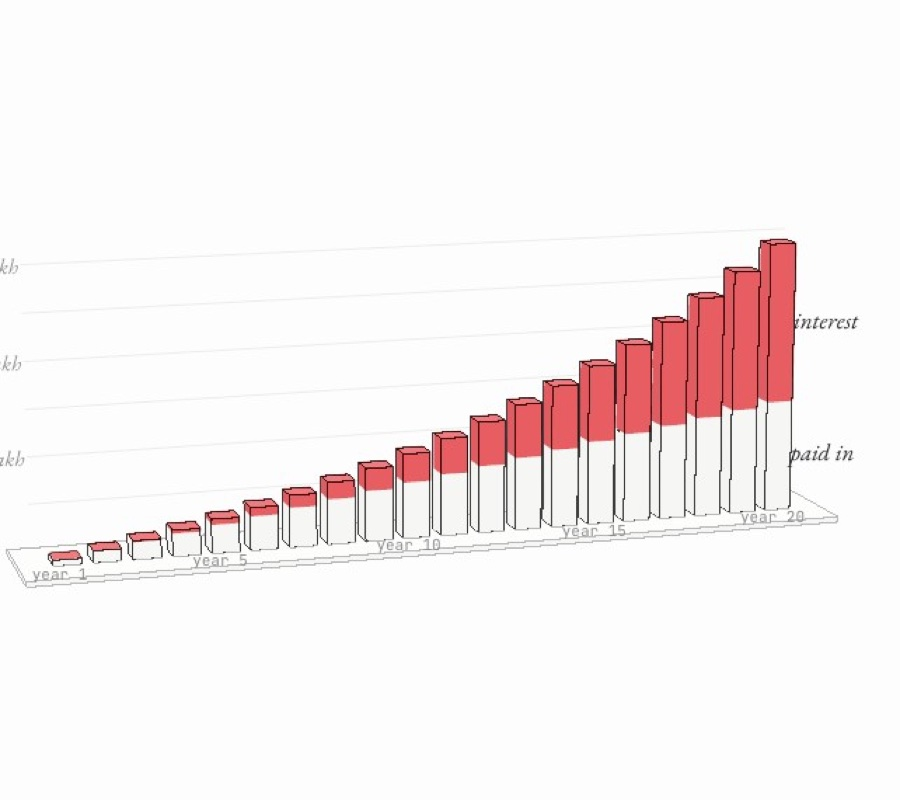
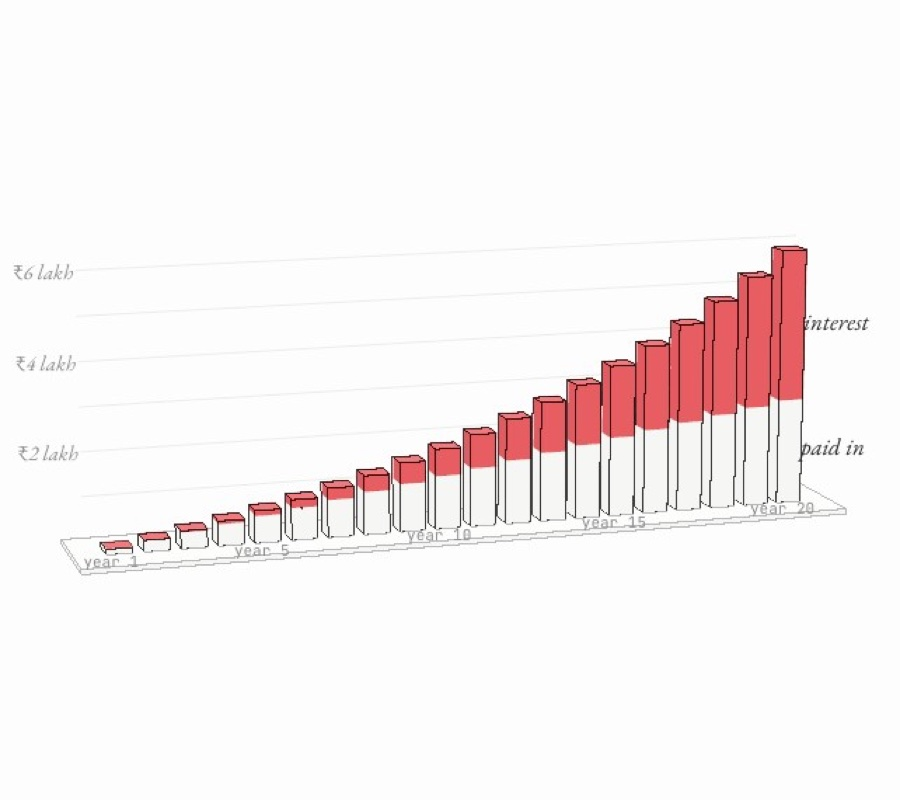
Unit circle: one ink ring, a larger sine wave, the tangent line kept on its board, legible value labels
Design-critique fixes by the chapter's builder; checks re-proved for the squeezed wave (59 PASS).
Cards redrawn for the unit circle and the compound machine's new amber step.

diff --git a/maths/unit-circle/world.js b/maths/unit-circle/world.js
@@ -25,11 +25,13 @@ export function buildWorld(E) {
   const root = new THREE.Group(); scene.add(root);
   const labels = [];
   const label = (cls, html, at, text) => labels.push({ cls, html, at, text });
+  // values on the drawing (1, ½, √3/2 …): ink, upright, 15 px, whatever the label class's own size and colour
+  const ink = (html, px = 15) => `<span style="font:${px}px/1 var(--serif);font-style:normal;color:var(--hi)">${html}</span>`;
 
   // faint graph-paper ground
   const grid = [];
-  for (let x = -4; x <= 82; x++) grid.push(x, 0.001, -3, x, 0.001, 4);
-  for (let z = -3; z <= 4; z++) grid.push(-4, 0.001, z, 82, 0.001, z);
+  for (let x = -12; x <= 90; x++) grid.push(x, 0.001, -16, x, 0.001, 10);
+  for (let z = -16; z <= 10; z++) grid.push(-12, 0.001, z, 90, 0.001, z);
   lines(root, grid, '#e6e6e2');
 
   // ---------- helpers ----------
@@ -76,12 +78,17 @@ export function buildWorld(E) {
 
   // A drawing board centred on x0: board, stand, faint squared paper, axes with ±1 ticks, the circle and O.
   // b = the board's extent in radii. Returns W(mx, my, z): radii on this board → world.
-  function board(x0, { b = [-1.45, 1.45, -1.45, 1.45], parent = root, axes = [-1.3, 1.3, -1.3, 1.3], ticks = true } = {}) {
+  function board(x0, { b = [-1.45, 1.45, -1.45, 1.45], parent = root, axes = [-1.3, 1.3, -1.3, 1.3], ticks = true, xName = '<i>x</i>' } = {}) {
     const W = (mx, my, z = 0) => V(x0 + mx * RW, CY + my * RW, z);
     const [bx0, bx1, by0, by1] = b, bw = (bx1 - bx0) * RW, bh = (by1 - by0) * RW, c = W((bx0 + bx1) / 2, (by0 + by1) / 2, ZB);
-    part(root, box(bw, bh, 0.04, 0.015), { tone: 'lo', pal: 'board', pos: c.toArray(), name: 'Board' });
-    const yb = CY + by0 * RW;
-    part(root, box(Math.min(bw * 0.5, 2.4), yb, 0.5, 0.02), { tone: 'lo', pal: 'base', pos: [c.x, yb / 2, ZB - 0.2], name: 'Stand' });
+    // a flat sheet with a thin drawn outline: the edge pass inked its near-vertical sides in stepped dashes
+    part(root, new THREE.BoxGeometry(bw, bh, 0.006), { tone: 'lo', pal: 'board', pos: c.toArray(), name: 'Board' }).userData.noEdge = true;
+    { const zo = ZB + 0.004, q = [[bx0, by0], [bx1, by0], [bx1, by1], [bx0, by1]], o = [];
+      for (let k = 0; k < 4; k++) o.push(...W(...q[k], zo).toArray(), ...W(...q[(k + 1) % 4], zo).toArray());
+      lines(root, o, '#cfcfcb'); }
+    const yb = CY + by0 * RW, legs = [];
+    for (const s of [-1, 1]) legs.push(c.x + s * bw * 0.3, yb, ZB - 0.01, c.x + s * bw * 0.34, 0.001, ZB - 0.45);
+    lines(root, legs, '#d6d6d2');
     // squared paper: a line every quarter of a radius
     const sq = [], zq = ZB + 0.022;
     for (let k = Math.ceil(bx0 * 4); k <= Math.floor(bx1 * 4); k++) sq.push(...W(k / 4, by0, zq).toArray(), ...W(k / 4, by1, zq).toArray());
@@ -91,9 +98,10 @@ export function buildWorld(E) {
     const [ax0, ax1, ay0, ay1] = axes, ax = [...W(ax0, 0).toArray(), ...W(ax1, 0).toArray(), ...W(0, ay0).toArray(), ...W(0, ay1).toArray()];
     if (ticks) for (const s of [-1, 1]) ax.push(...W(s, -0.04).toArray(), ...W(s, 0.04).toArray(), ...W(-0.04, s).toArray(), ...W(0.04, s).toArray());
     lines(root, ax, '#8a8a8f');
-    label('axis', '<i>x</i>', () => W(ax1 + 0.02, -0.1, ZL));
+    label('axis', xName, () => W(ax1 + 0.02, -0.1, ZL));
     label('axis', '<i>y</i>', () => W(-0.07, ay1 - 0.04, ZL));
-    const ring = part(parent, new THREE.TorusGeometry(RW, 0.022, 10, 180), { tone: 'mid', pal: 'paper', pos: W(0, 0).toArray(), name: 'Circle' });
+    const ring = part(parent, new THREE.TorusGeometry(RW, 0.011, 8, 256), { tone: 'mid', pal: 'ink', pos: W(0, 0).toArray(), name: 'Circle' });
+    ring.userData.noEdge = true;                // a thin ink tube needs no outline: it is the stroke
     dot(root, 0.04, 'ink', 'Origin', 'mid').position.copy(W(0, 0));
     return { W, ring };
   }
@@ -123,8 +131,8 @@ export function buildWorld(E) {
   const drop0 = dyn(root, 3, { color: '#6e6e74', dash: 0.06 });
   const foot0 = [bar(g0, { w: 0.05, pal: 'blue', name: 'cos θ' }), bar(g0, { w: 0.05, pal: 'red', name: 'sin θ' })];
   label('vec', '<i>P</i>', () => riding(W0, M.steady(T), 1.2));
-  label('mark', '1', () => W0(1.1, -0.1, ZL)); label('mark', '−1', () => W0(-1.13, -0.1, ZL));
-  label('mark', '1', () => W0(-0.1, 1.1, ZL)); label('mark', '−1', () => W0(-0.13, -1.1, ZL));
+  label('mark', ink('1'), () => W0(1.1, -0.1, ZL)); label('mark', ink('−1'), () => W0(-1.14, -0.1, ZL));
+  label('mark', ink('1'), () => W0(-0.1, 1.1, ZL)); label('mark', ink('−1'), () => W0(-0.14, -1.1, ZL));
   label('mark', '<i>O</i>', () => W0(-0.1, -0.12, ZL));
   label('mark', 'θ', () => { const a = (M.steady(T) % M.TAU) / 2; return W0(0.36 * Math.cos(a), 0.36 * Math.sin(a), ZL); });
   label('vec blue', 'cos θ', () => ex(g0) > 0.3 ? W0(Math.cos(M.steady(T)) / 2, Math.sin(M.steady(T)) < 0 ? 0.13 : -0.13, ZL) : null);
@@ -141,10 +149,12 @@ export function buildWorld(E) {
   { const c = [];                                                     // ghost radii at 30°, 45°, 60°, and marks on the screen
     for (const s of M.SPECIAL.slice(1, 4)) c.push(...W1(0, 0).toArray(), ...W1(s.cos, s.sin).toArray());
     lines(root, c, '#cfcfd3');
-    const m = []; for (const s of M.SPECIAL) m.push(...W1(SX + 0.04, s.sin, 0.05).toArray(), ...W1(SX + 0.13, s.sin, 0.05).toArray());
+    // √3/2 sits only 0.134 below 1, so its value stands out in a second column, on a longer tick
+    const far = s => s.deg === 60, m = [];
+    for (const s of M.SPECIAL) m.push(...W1(far(s) ? SX - 0.36 : SX + 0.04, s.sin, 0.05).toArray(), ...W1(SX + 0.13, s.sin, 0.05).toArray());
     lines(root, m, '#6e6e74');
-    for (const s of M.SPECIAL) label('tick', s.sinText, () => W1(SX - 0.07, s.sin, ZL)); }
-  label('vec red', 'sin θ', () => { const s = Math.sin(M.steady(T)); return Math.abs(s) > 0.12 ? W1(SX + 0.26, s / 2, ZL) : null; });
+    for (const s of M.SPECIAL) label('axis', ink(s.sinText, 14), () => W1(far(s) ? SX - 0.4 : SX - 0.07, s.sin, ZL)); }
+  label('vec red', 'sin θ', () => { const s = Math.sin(M.steady(T)); return Math.abs(s) > 0.12 ? W1(SX - 0.55, s / 2, ZL) : null; });   // left of the screen, where P never goes
   label('vec', '<i>P</i>', () => riding(W1, M.steady(T) - 0.24, 0.84));     // inside and just behind P, off the radius and clear of the shadow's label
   label('axis', 'level light', () => W1(LX - 0.1, 1.28, ZL));
 
@@ -162,7 +172,7 @@ export function buildWorld(E) {
     const m = []; for (const s of M.SPECIAL) m.push(...W2(s.cos, SY + 0.04, 0.05).toArray(), ...W2(s.cos, SY + 0.13, 0.05).toArray());
     lines(root, m, '#6e6e74');
     // staggered, so the close surds don't collide
-    M.SPECIAL.forEach((s, i) => label('mark', s.cosText, () => W2(s.cos, SY - (i % 2 ? 0.36 : 0.13), ZL))); }
+    M.SPECIAL.forEach((s, i) => label('mark', ink(s.cosText, 14), () => W2(s.cos, SY - (i % 2 ? 0.36 : 0.13), ZL))); }
   label('vec blue', 'cos θ', () => { const c = Math.cos(M.steady(T)); return Math.abs(c) > 0.2 ? W2(c / 2, SY + 0.28, ZL) : null; });
   label('vec', '<i>P</i>', () => riding(W2, M.steady(T) - 0.24, 0.84));
   label('board', 'light', () => W2(-1.3, LY - 0.17, ZL));
@@ -200,18 +210,18 @@ export function buildWorld(E) {
     for (let k = 1; k <= 6; k++) c.push(...W4(Math.cos(k), Math.sin(k)).toArray(), ...W4(1.09 * Math.cos(k), 1.09 * Math.sin(k)).toArray());
     c.push(...W4(0, 0).toArray(), ...W4(Math.cos(1), Math.sin(1)).toArray());             // the 1-radian wedge
     lines(root, c, '#6e6e74');
-    for (let k = 1; k <= 6; k++) label('mark', String(k), () => W4(1.22 * Math.cos(k), 1.22 * Math.sin(k), ZL));
-    label('mark', '2π', () => W4(1.22, 0.08, ZL));
-    label('mark', '1 rad', () => W4(0.5 * Math.cos(0.5), 0.5 * Math.sin(0.5), ZL)); }
+    for (let k = 1; k <= 6; k++) label('mark', ink(String(k)), () => W4(1.22 * Math.cos(k), 1.22 * Math.sin(k), ZL));
+    label('mark', ink('2π'), () => W4(1.22, 0.08, ZL));
+    label('mark', ink('1 rad'), () => W4(0.5 * Math.cos(0.5), 0.5 * Math.sin(0.5), ZL)); }
   // unrolled (opened): the arc straightened up the line x = 1, with a mark every radius
   const unroll4 = new THREE.Group(); root.add(unroll4);
   { const c = []; for (let k = 1; k <= 6; k++) c.push(...W4(0.94, k).toArray(), ...W4(1.06, k).toArray()); c.push(...W4(1, 0).toArray(), ...W4(1, 6.6).toArray()); lines(unroll4, c, '#6e6e74'); }
-  for (let k = 1; k <= 6; k++) label('tick', String(k), () => unroll4.visible ? W4(0.9, k, ZL) : null);
+  for (let k = 1; k <= 6; k++) label('axis', ink(String(k)), () => unroll4.visible ? W4(0.9, k, ZL) : null);
   label('vec red', '<i>s</i> = θ', () => { const a = M.unwind(T); return a > 0.5 && ex(g4) < 0.3 ? W4(0.72 * Math.cos(a / 2), 0.72 * Math.sin(a / 2), ZL) : null; });
 
   // ---------- 5 · the sine wave: P's height drawn on a strip sliding to the right ----------
-  const S5 = STATIONS.wave, SL = M.STRIP.len;
-  const B5 = board(S5, { b: [-1.45, PEN + SL + 0.3, -1.45, 1.45], axes: [-1.3, PEN + SL + 0.15, -1.3, 1.3] }), W5 = B5.W, p5 = pointP(W5, root);
+  const S5 = STATIONS.wave, SL = M.STRIP.len, KP = M.K;
+  const B5 = board(S5, { b: [-1.45, PEN + SL + 0.3, -1.45, 1.45], axes: [-1.3, PEN + SL + 0.15, -1.3, 1.3], xName: '<i>t</i>' }), W5 = B5.W, p5 = pointP(W5, root);
   part(root, new THREE.BoxGeometry(SL * RW, 2.3 * RW, 0.012), { tone: 'lo', pal: 'base', pos: W5(PEN + SL / 2, 0, -0.07).toArray(), name: 'Strip' });
   const g5 = asm('wave', root, { title: 'The trace', sub: 'P’s height against how far it has turned' });
   const trace5 = part(g5, liveTube(280, 0.03), { pal: 'red', name: 'Trace, y = sin t', tone: 'hi' });
@@ -220,25 +230,25 @@ export function buildWorld(E) {
   const level5 = dyn(root, 2, { color: '#8a8a8f', dash: 0.07 });
   const ticks5 = lines(root, new Array(4 * 6).fill(0), '#6e6e74');
   ticks5.geometry.attributes.position.setUsage(THREE.DynamicDrawUsage); ticks5.frustumCulled = false;
-  { const yb = -1.3, c = [...W5(PEN, yb).toArray(), ...W5(PEN + M.TAU, yb).toArray()];        // one wavelength, 2π
-    for (const u of [0, M.TAU]) c.push(...W5(PEN + u, yb - 0.06).toArray(), ...W5(PEN + u, yb + 0.06).toArray());
-    for (let k = 1; k <= 6; k++) c.push(...W5(PEN + k, -1.17).toArray(), ...W5(PEN + k, -1.12).toArray());
+  { const yb = -1.3, c = [...W5(PEN, yb).toArray(), ...W5(PEN + M.WAVELENGTH, yb).toArray()];   // one wavelength: t = 2π
+    for (const u of [0, M.WAVELENGTH]) c.push(...W5(PEN + u, yb - 0.06).toArray(), ...W5(PEN + u, yb + 0.06).toArray());
+    for (let k = 1; k <= 7; k++) c.push(...W5(PEN + KP * k, -1.17).toArray(), ...W5(PEN + KP * k, -1.12).toArray());   // t = 1, 2, … 7
     lines(root, c, '#6e6e74'); }
-  label('mark', 'one turn: 2π', () => W5(PEN + Math.PI, -1.56, ZL));
-  label('tick', '1', () => W5(PEN - 0.05, 1, ZL)); label('tick', '−1', () => W5(PEN - 0.05, -1, ZL)); label('tick', '0', () => W5(PEN - 0.05, 0.06, ZL));
+  label('mark', ink('one turn: <i>t</i> = 2π'), () => W5(PEN + M.WAVELENGTH / 2, -1.56, ZL));
+  label('axis', ink('1'), () => W5(PEN - 0.05, 1, ZL)); label('axis', ink('−1'), () => W5(PEN - 0.05, -1, ZL)); label('axis', ink('0'), () => W5(PEN - 0.05, 0.08, ZL));
   label('board', '<i>y</i> = sin <i>t</i>', () => W5(PEN + 0.1, 1.32, ZL));
   label('axis', 'paper moves →', () => W5(PEN + SL - 0.05, 1.32, ZL));
-  label('vec blue', 'slope = cos <i>t</i>', () => ex(g5) > 0.3 ? W5(PEN + 3.2, Math.cos(M.steady(T) - 3.2) > 0 ? -0.85 : 0.85, ZL) : null);
+  label('vec blue', 'slope = cos <i>t</i>', () => ex(g5) > 0.3 ? W5(PEN + 1.6, Math.cos(M.steady(T) - 1.6 / KP) > 0 ? -0.85 : 0.85, ZL) : null);
 
   // ---------- 6 · tangent: the ray OP carried on to the line x = 1 ----------
   const S6 = STATIONS.tangent, B6 = board(S6, { b: [-1.45, 1.75, -1.45, 2.7], axes: [-1.3, 1.6, -1.3, 2.55] }), W6 = B6.W, p6 = pointP(W6, root);
-  part(root, cyl(0.014, 3.9 * RW, 10), { tone: 'mid', pal: 'dark', pos: W6(1, 1.2, 0).toArray(), name: 'Tangent line' });
+  part(root, cyl(0.014, 3.9 * RW, 10), { tone: 'mid', pal: 'dark', pos: W6(1, 0.65, 0).toArray(), name: 'Tangent line' });   // y = −1.3 … 2.6, inside the board
   const g6 = asm('tangent', root, { title: 'The tangent length', sub: 'from (1, 0) up to the ray: tan θ' });
   const tan6 = bar(g6, { pal: 'red', name: 'tan θ' }), T6 = dot(g6, 0.06, 'ink', 'Where the ray meets x = 1');
   const ray6 = rod(root, { r: 0.01, pal: 'dark', name: 'Ray', tone: 'mid' });
   const sim6 = dyn(root, 3, { color: '#3f6896' }), simS6 = dyn(root, 2, { color: '#b8343a' });
   lines(root, [...W6(0.94, 1).toArray(), ...W6(1.06, 1).toArray()], '#6e6e74');
-  label('tick', '1', () => W6(0.92, 1, ZL));
+  label('axis', ink('1'), () => W6(0.92, 1, ZL));
   label('vec red', 'tan θ', () => { const y = M.tan(M.tsway(T)); return Math.abs(y) > 0.25 ? W6(1.32, y / 2, ZL) : null; });
   label('vec', '<i>P</i>', () => { const a = M.tsway(T); return W6(Math.cos(a) - 0.2 * Math.sin(a) - 0.12, Math.sin(a) + 0.2 * Math.cos(a), ZL); });
   label('board', '<i>x</i> = 1', () => W6(1.08, -1.22, ZL));
@@ -248,7 +258,7 @@ export function buildWorld(E) {
   const g7 = asm('signs', root, { title: 'The two shadows, signed', sub: 'right and up are +, left and down are −' });
   const c7 = bar(g7, { pal: 'blue', name: 'cos θ' }), s7 = bar(g7, { pal: 'red', name: 'sin θ' });
   const ref7 = dot(root, 0.05, 'dark', 'Reference angle', 'mid'), refL7 = dyn(root, 3, { color: '#8a8a8f', dash: 0.06 });
-  for (const [x, y, t] of [[1, 1, 'sin +&nbsp; cos +'], [-1, 1, 'sin +&nbsp; cos −'], [-1, -1, 'sin −&nbsp; cos −'], [1, -1, 'sin −&nbsp; cos +']]) label('mark', t, () => W7(x * 1.18, y > 0 ? 1.12 : -1.36, ZL));
+  for (const [x, y, t] of [[1, 1, 'sin +&nbsp; cos +'], [-1, 1, 'sin +&nbsp; cos −'], [-1, -1, 'sin −&nbsp; cos −'], [1, -1, 'sin −&nbsp; cos +']]) label('mark', ink(t, 14), () => W7(x * 1.18, y > 0 ? 1.12 : -1.36, ZL));
   label('vec blue', 'cos θ', () => { const a = M.steady(T); return Math.abs(Math.cos(a)) > 0.3 ? W7(Math.cos(a) / 2, Math.sin(a) > 0 ? -0.15 : 0.15, ZL) : null; });
   label('vec red', 'sin θ', () => { const a = M.steady(T); return Math.abs(Math.sin(a)) > 0.3 ? W7(Math.cos(a) + (Math.cos(a) > 0 ? 0.26 : -0.26), Math.sin(a) / 2, ZL) : null; });
   label('vec', '<i>P</i>', () => riding(W7, M.steady(T), 1.2));
@@ -289,13 +299,13 @@ export function buildWorld(E) {
       unroll4.visible = e > 0.3; }
     // 5 · the wave
     { const th = M.steady(t), p = p5.set(th), n = 280, pts = [], sl = [], e = ex(g5);
-      for (let i = 0; i <= n; i++) { const u = SL * i / n; pts.push(W5(PEN + u, M.wave(t, u), 0.01)); sl.push(W5(PEN + u, Math.cos(th - u), 0.005)); }
+      for (let i = 0; i <= n; i++) { const u = SL * i / n; pts.push(W5(PEN + u, M.wave(t, u), 0.01)); sl.push(W5(PEN + u, Math.cos(th - u / KP), 0.005)); }
       trace5.geometry.update(pts); pen5.position.copy(W5(PEN, Math.sin(th), 0.01));
       slope5.visible = e > 0.3; if (slope5.visible) slope5.geometry.update(sl);
       level5.set([p, W5(PEN, Math.sin(th))]);
       // a tick on the strip's top edge wherever the trace crossed 0 going up (one per turn), riding with the paper
       const a = ticks5.geometry.attributes.position, k0 = Math.floor(th / M.TAU);
-      for (let k = 0; k < 6; k++) { const u = th - (k0 - k) * M.TAU, on = u >= 0 && u <= SL, q0 = W5(PEN + u, 1.08), q1 = W5(PEN + u, 1.15);
+      for (let k = 0; k < 6; k++) { const u = KP * (th - (k0 - k) * M.TAU), on = u >= 0 && u <= SL, q0 = W5(PEN + u, 1.08), q1 = W5(PEN + u, 1.15);
         a.setXYZ(2 * k, q0.x, on ? q0.y : -5, 0); a.setXYZ(2 * k + 1, q1.x, on ? q1.y : -5, 0); }
       a.needsUpdate = true; }
     // 6 · tangent (opened: the small triangle under P and the big one under T have the same shape)

diff --git a/maths/unit-circle/pages.js b/maths/unit-circle/pages.js
@@ -113,9 +113,9 @@ export const PAGES = [
   {
     kicker: '1.5', title: 'The sine wave', sub: 'the height, drawn against the turn',
     body: `
-      <p class="lede">Let <i>P</i> go round at a steady rate, and let a strip of paper slide to the right at one radius per radian. A pen held level with <i>P</i> draws its height against how far it has turned:</p>
+      <p class="lede">Let <i>P</i> go round at a steady rate, and let a strip of paper slide steadily to the right. A pen held level with <i>P</i> draws its height against how far it has turned, <i>t</i> radians:</p>
       <div class="eq"><i>y</i> = sin <i>t</i></div>
-      <p>After one turn the paper has moved 2π: one <b>wavelength</b>. Then <i>P</i> repeats itself, and so does the trace: sin(<i>t</i> + 2π) = sin <i>t</i>. Sine is <b>periodic</b> with period 2π.</p>
+      <p>The paper moves ${f(M.K, 1)} of a radius for each radian, so the graph is squeezed sideways by half; its <i>t</i> axis is marked in radians. After one turn the trace has run from <i>t</i> = 0 to <i>t</i> = 2π: one <b>wavelength</b>. Then <i>P</i> repeats itself, and so does the trace: sin(<i>t</i> + 2π) = sin <i>t</i>. Sine is <b>periodic</b> with period 2π.</p>
       <table class="data">
         <tr><th><i>t</i></th>${['0', 'π/2', 'π', '3π/2', '2π'].map(x => `<td>${x}</td>`).join('')}</tr>
         <tr><th>sin <i>t</i></th>${[0, 1, 2, 3, 4].map(k => `<td>${f(Math.sin(k * Math.PI / 2), 0)}</td>`).join('')}</tr>
@@ -124,7 +124,7 @@ export const PAGES = [
       <div class="charts">${chart({ ...RANGES.wave, xlabel: 't', ylabel: 'y = sin t', cursors: ['wave'], label: 'y equals sin t over two turns',
         series: [{ cls: 'grid', pts: [[M.TAU, -1], [M.TAU, 1]] }, { pts: samples(0, RANGES.wave.x1, 200, Math.sin) }], marks: [[M.TAU, 0, '2π']] })}</div>
       <p class="hintline">Click the trace for its slope, cos t, in blue.</p>`,
-    cam: { target: at('wave', 3.4 * 1.5, 0), az: -3, el: 5, dist: 43 }, lit: 'wave', scene: 'wave', look: {},
+    cam: { target: at('wave', 1.9 * 1.5, 0), az: -3, el: 5, dist: 27.5 }, lit: 'wave', scene: 'wave', look: {},
     fig: 'P’s height drawn on a sliding strip',
     alt: 'P goes round the circle on the left; a pen level with P draws a red sine wave on a paper strip sliding to the right.',
   },
@@ -142,7 +142,7 @@ export const PAGES = [
       <div class="charts">${chart({ ...RANGES.tan, xlabel: 'θ (°)', ylabel: 'tan θ', cursors: ['tan'], label: 'tan theta from minus 90 to 90 degrees, running off to infinity at both ends',
         series: [{ cls: 'grid', pts: [[45, -4], [45, 4]] }, { pts: samples(-Math.atan(4) / M.DEG, Math.atan(4) / M.DEG, 160, d => Math.tan(d * M.DEG)) }], marks: [[45, 1, '1 at 45°']] })}</div>
       <p class="hintline">Click the red length to see the two triangles of the same shape.</p>`,
-    cam: { target: at('tangent', 0.2, 0.9), az: -6, el: 4, dist: 20 }, lit: 'tangent', scene: 'tangent', look: {},
+    cam: { target: at('tangent', 0.2, 1.2), az: -6, el: 4, dist: 22.5 }, lit: 'tangent', scene: 'tangent', look: {},
     fig: 'The ray OP meets x = 1 at height tan θ',
     alt: 'The radius OP is extended as a ray until it meets the vertical line x = 1; a red bar on that line measures from the x axis up to the meeting point.',
   },
@@ -178,7 +178,7 @@ export const PLATES = {
     facts: s => { const a = M.sway(s.t), c = Math.cos(a), n = Math.sin(a); return [['θ', `${f(a / M.DEG, 1)}°`], ['sin²θ (red)', f(n * n)], ['cos²θ (blue)', f(c * c)], ['sum', f(n * n + c * c, 6)]]; } },
   radian: { text: `The red arc straightened up the line x = 1. It is as long as the angle in radians: a mark every radius, six marks and a bit for a full turn, ${f(M.FULL)}.`,
     facts: s => { const a = M.unwind(s.t); return [['angle', `${f(a / M.DEG, 1)}°`], ['in radians', f(a)], ['arc s', `${f(M.arc(a))} radii`], ['full turn', `2π = ${f(M.FULL)}`]]; } },
-  wave: { text: `The blue curve is the slope of the red trace at each point: steepest (±1) where the trace crosses the middle, zero at its tops and bottoms. It is the cosine, shifted a quarter turn: the derivative of sin t is cos t.`,
+  wave: { text: `The blue curve is the slope of the red trace (height per unit of t) at each point: steepest (±1) where the trace crosses the middle, zero at its tops and bottoms. It is the cosine, shifted a quarter turn: the derivative of sin t is cos t.`,
     facts: s => [['turned t', `${f(th(s) % M.TAU)} of 2π`], ['height sin t', f(Math.sin(th(s)))], ['slope cos t', f(Math.cos(th(s)))], ['wavelength', `2π = ${f(M.WAVELENGTH)}`]] },
   tangent: { text: `Blue and red: the triangle under P, across cos θ and up sin θ. The big triangle under the meeting point is the same shape, across 1 and up tan θ. Same shape, same ratio: tan θ = sin θ / cos θ.`,
     facts: s => { const a = M.tsway(s.t); return [['θ', `${f(a / M.DEG, 1)}°`], ['sin θ / cos θ', f(Math.sin(a) / Math.cos(a))], ['height on x = 1', f(M.tangentPoint(a).y)], ['slope of OP', f(M.tan(a))]]; } },

diff --git a/maths/unit-circle/model.js b/maths/unit-circle/model.js
@@ -61,9 +61,12 @@ export const TG = { lo: -45 * DEG, hi: 68 * DEG, T: 16 };
 export const tsway = t => (TG.lo + TG.hi) / 2 + (TG.hi - TG.lo) / 2 * Math.sin(TAU * t / TG.T);
 
 // ---------- the sine wave: P's height drawn on a strip that slides sideways ----------
-// The strip moves at ω (one radius per radian), so one turn draws one wavelength, 2π long.
-export const STRIP = { len: 7.0 };                // strip length, in radii
-export const SPEED = W * R;                       // strip speed: radii per second
-export const WAVELENGTH = SPEED * TURN;           // distance the strip moves in one turn: 2π
-// a point u along the strip from the pen was drawn u/SPEED seconds ago, when the angle was ωt − u
+// The paper moves K radii for every radian P turns (K = ½: the graph is squeezed sideways by half, so a whole
+// wavelength fits the page). Along the strip, the paper's t axis has t = u / K at distance u from the pen.
+export const K = 0.5;                             // paper radii per radian of turn
+export const STRIP = { tmax: TAU + 1 };           // the strip shows t from 0 to 2π + 1: one turn and a bit
+STRIP.len = K * STRIP.tmax;                       // strip length, in radii (3.64)
+export const SPEED = K * W * R;                   // strip speed: radii per second
+export const WAVELENGTH = SPEED * TURN;           // paper moved in one turn: K·2π = π radii, which is t = 2π
+// a point u along the strip from the pen was drawn u/SPEED seconds ago, when the angle was ωt − u/K
 export const wave = (t, u) => sin(steady(t - u / SPEED));
